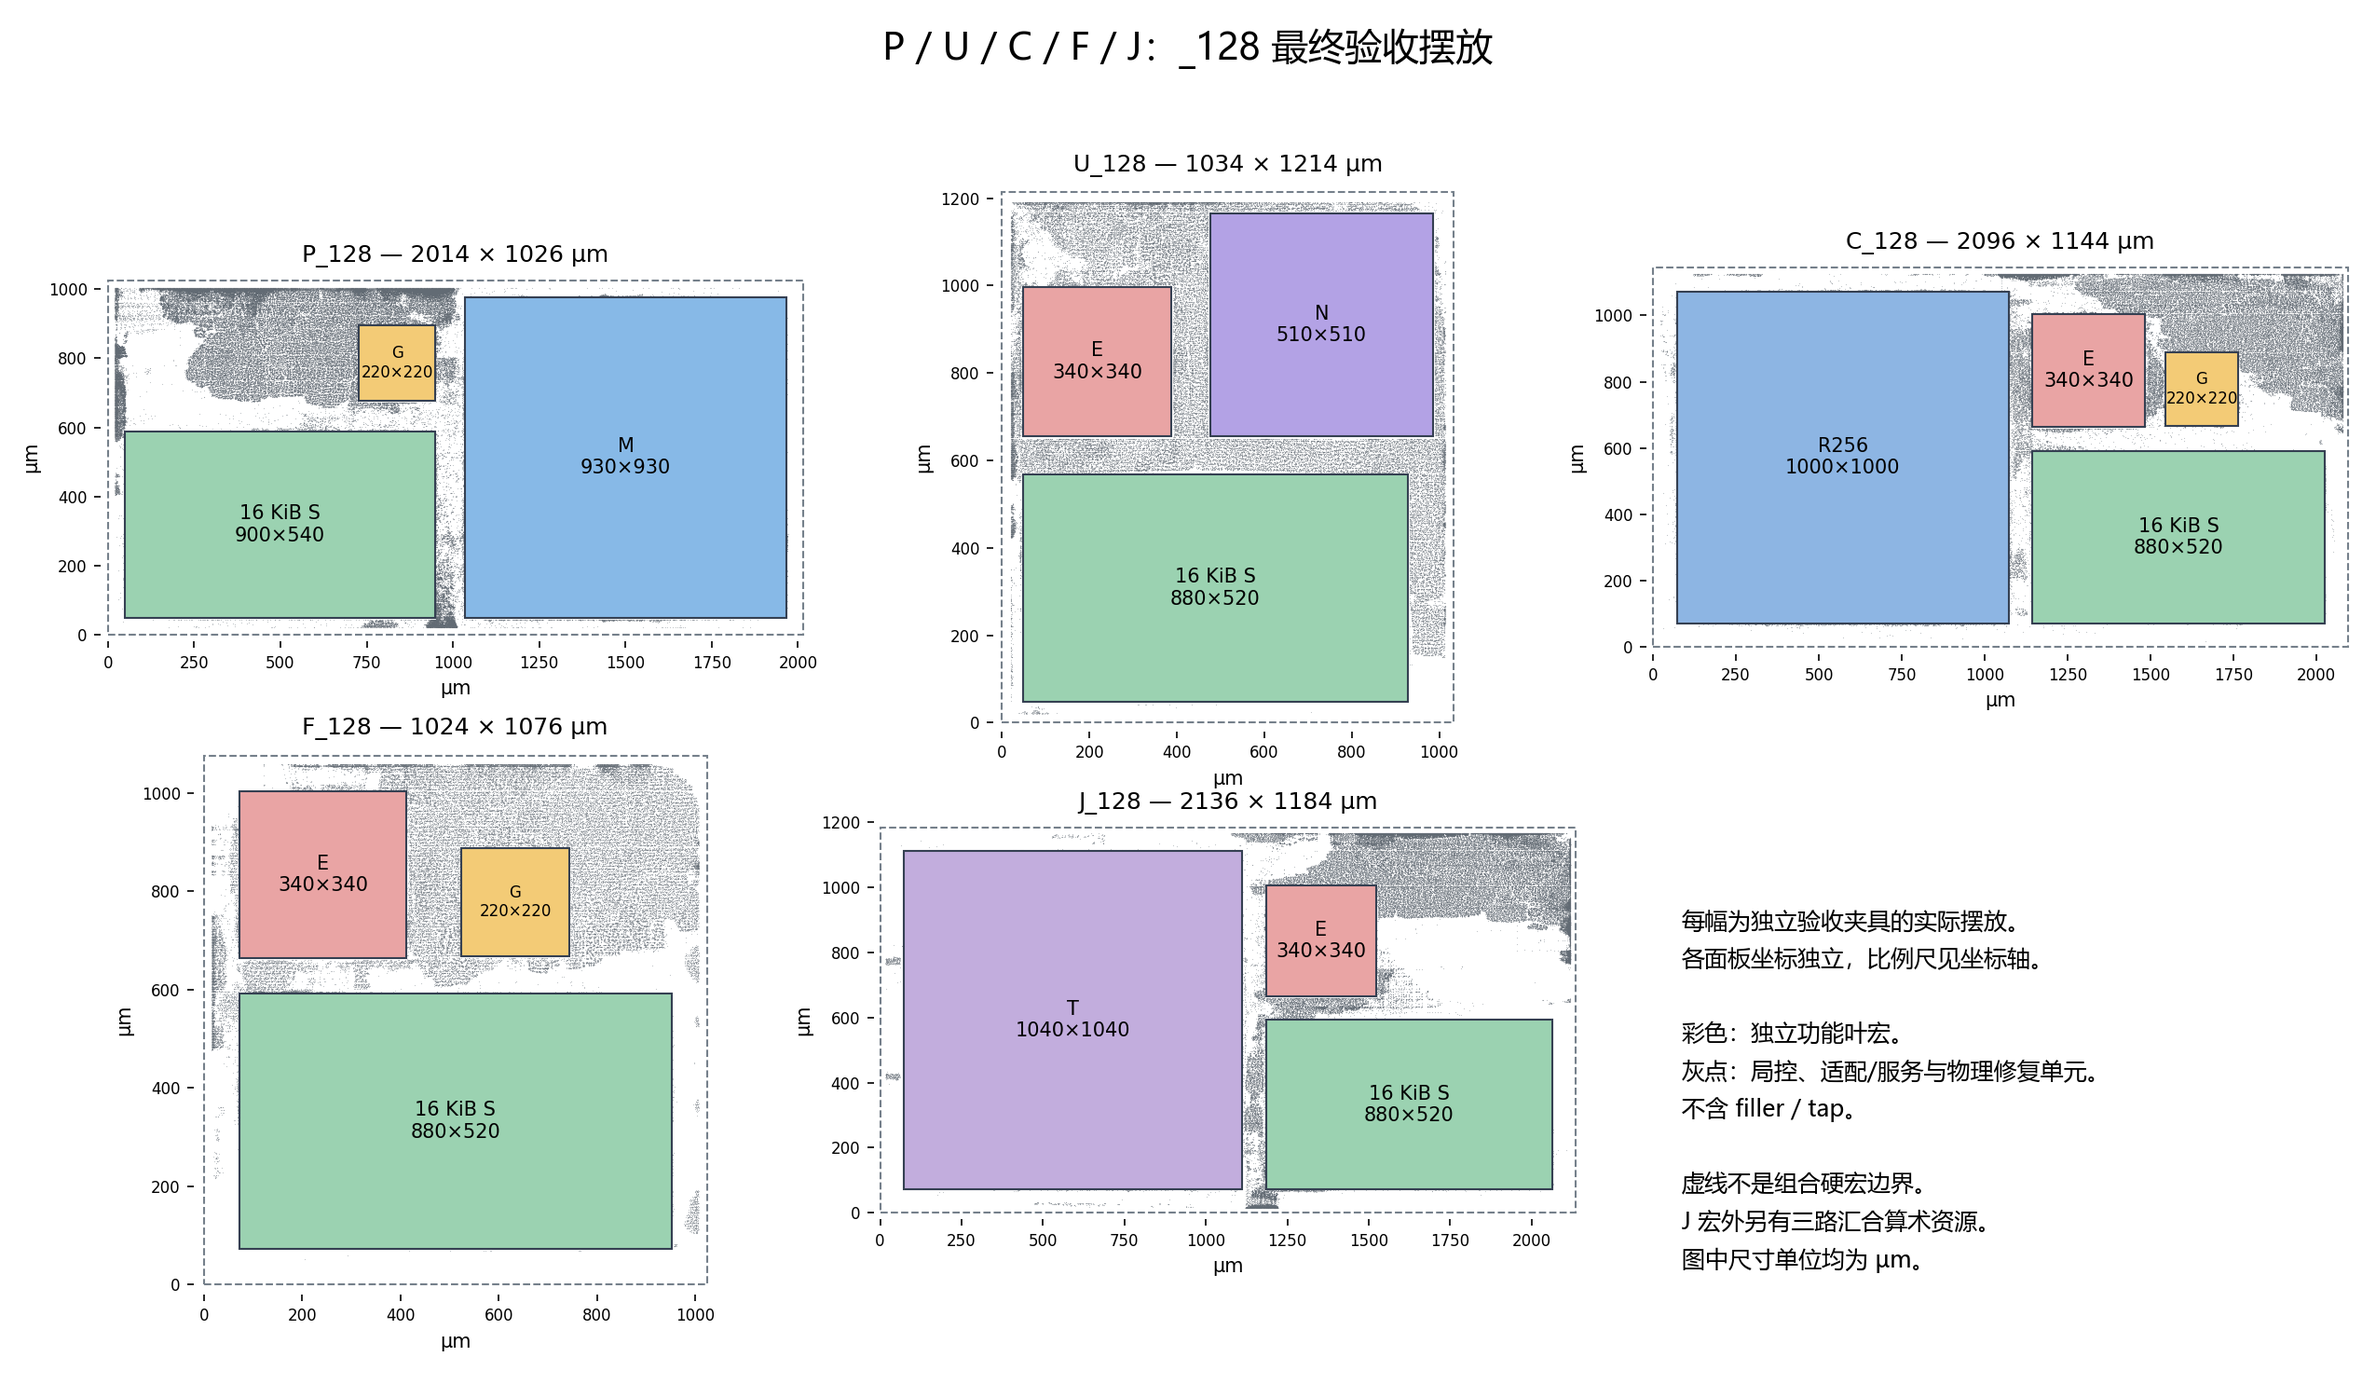
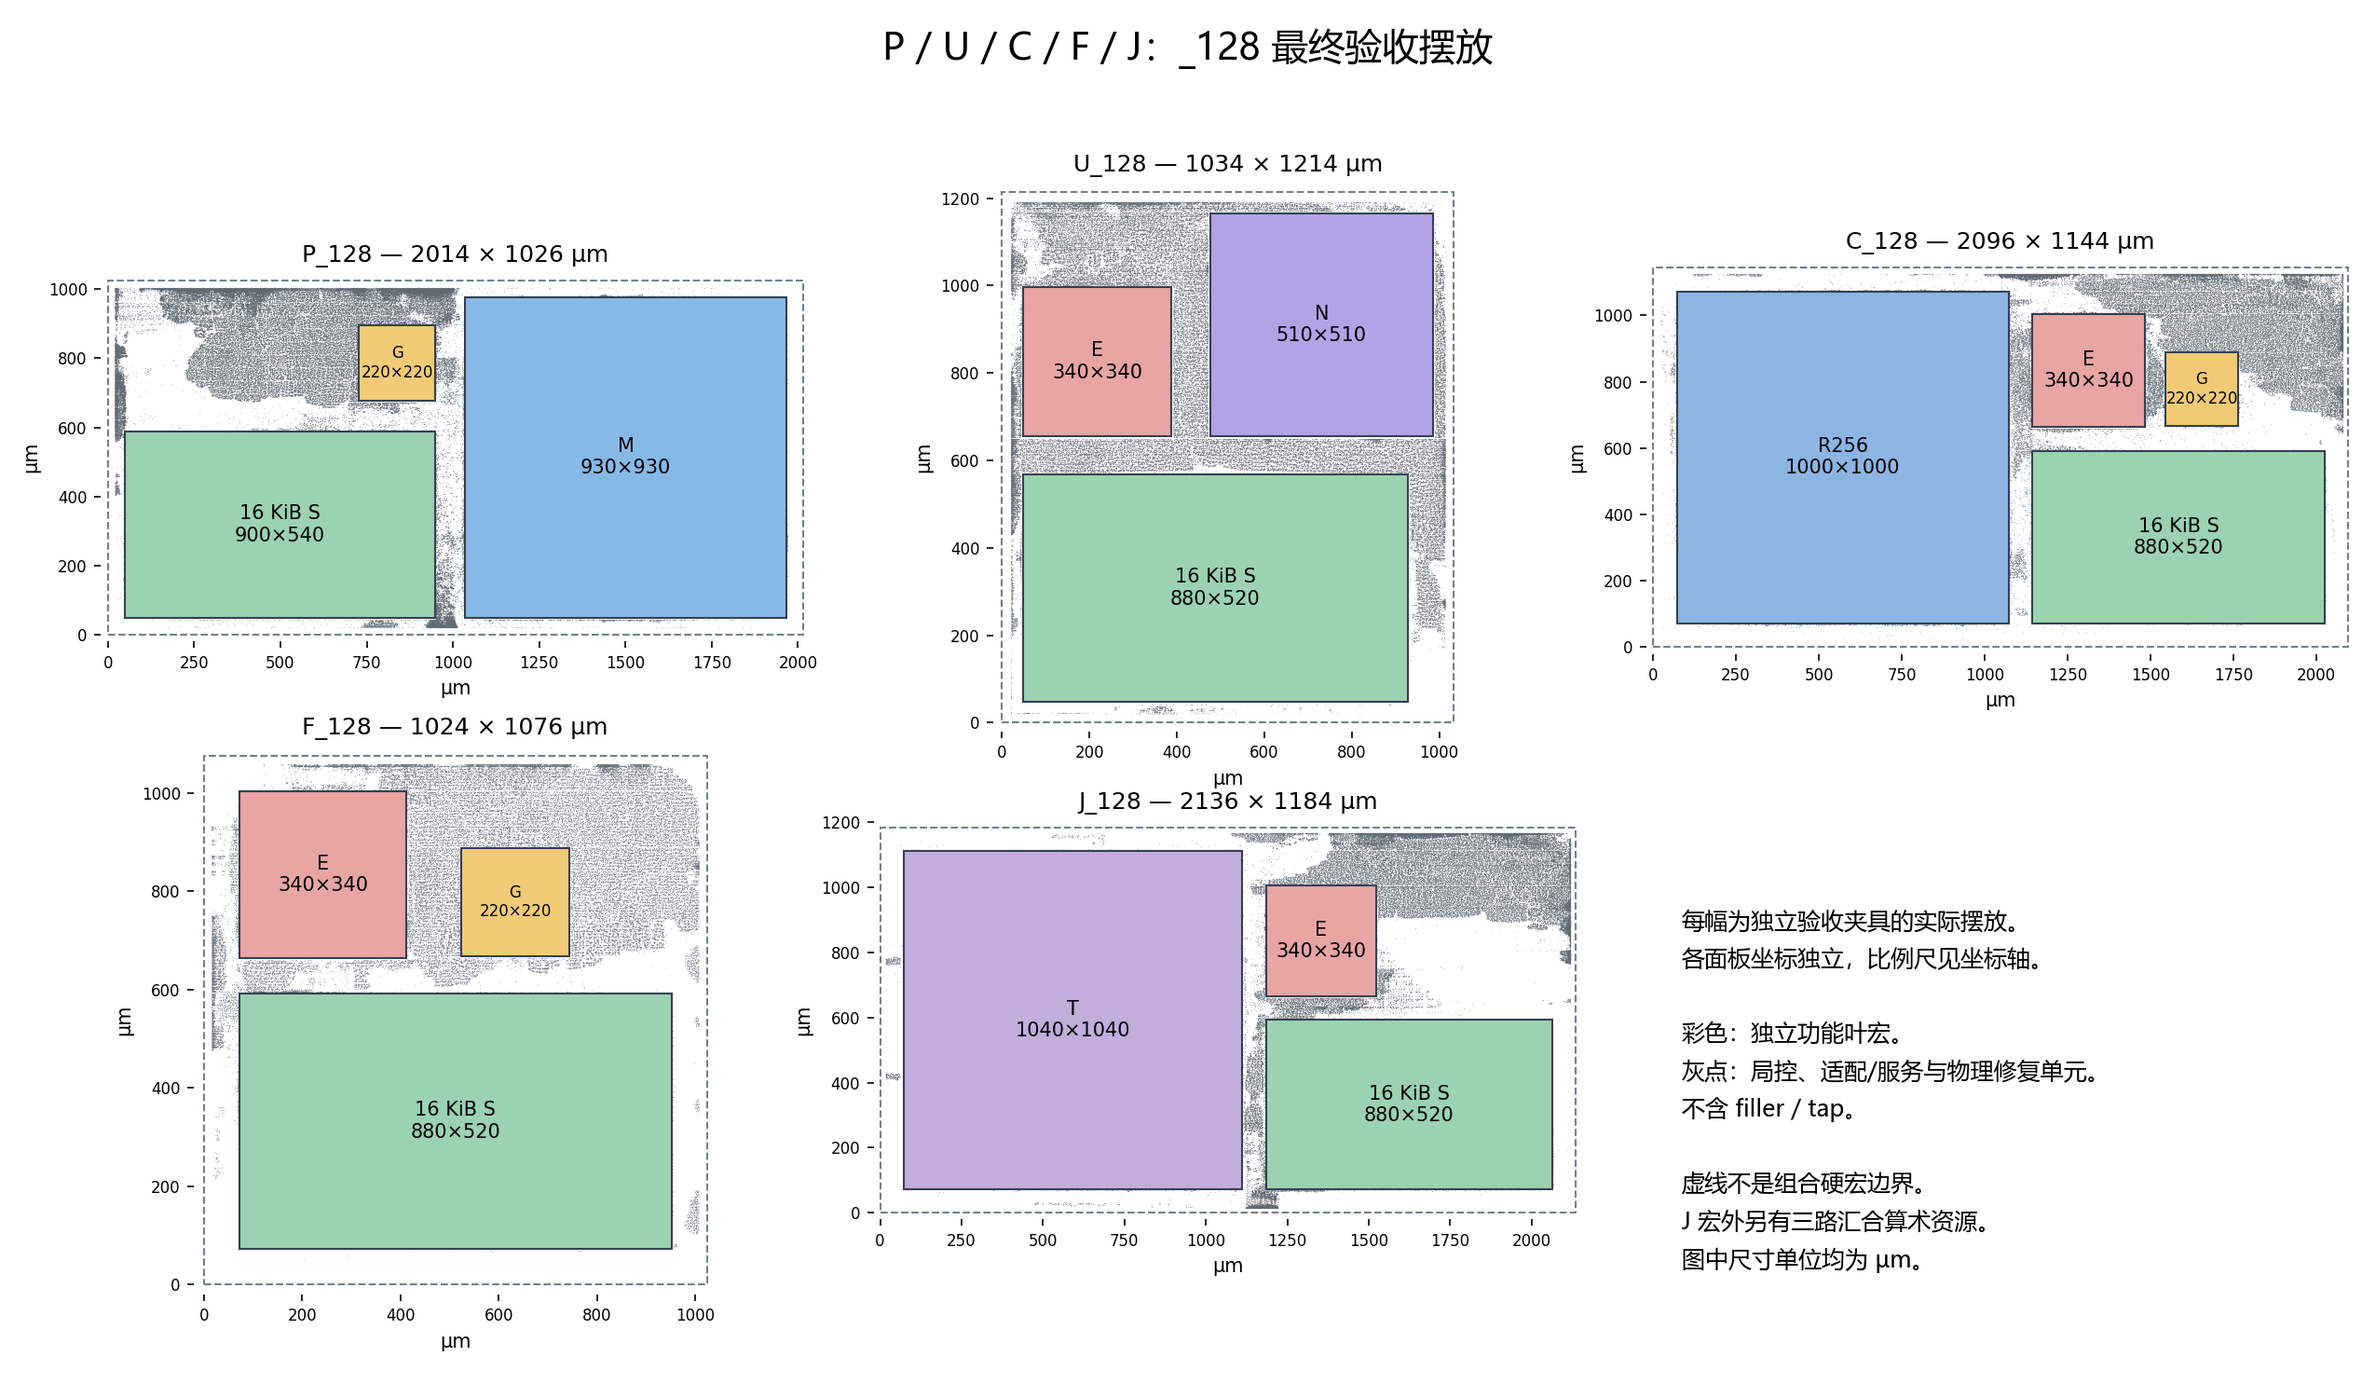
Update five-block placements and accepted U evidence for user-authorized integration

Changed region(s): [[0.4027, 0.1227, 0.6196, 0.46], [0.5886, 0.2453, 0.6196, 0.276]]

diff --git a/project/experiments/cfj_leaf_base/plot_five.py b/project/experiments/cfj_leaf_base/plot_five.py
@@ -23,12 +23,13 @@ for item in items:
  wanted={}
  with tarfile.open(p,'r|gz') as tar:
   for m in tar:
-   if m.name in ('native/6_final.def','native/inputs.json','physical/inventory.json','SHA256SUMS'):
+   if m.name in ('native/6_final.def','native/inputs.json','physical/inventory.json','SHA256SUMS','FILES.sha256'):
     wanted[m.name]=tar.extractfile(m).read()
  assert 'native/6_final.def' in wanted
- members={n:sha(b) for n,b in wanted.items() if n!='SHA256SUMS'}
- if 'SHA256SUMS' in wanted:
-  sums={line[66:].removeprefix('./'):line[:64] for line in wanted['SHA256SUMS'].decode().splitlines() if len(line)>66}
+ members={n:sha(b) for n,b in wanted.items() if n not in ('SHA256SUMS','FILES.sha256')}
+ for manifest in ('SHA256SUMS','FILES.sha256'):
+  if manifest not in wanted: continue
+  sums={line[66:].removeprefix('./'):line[:64] for line in wanted[manifest].decode().splitlines() if len(line)>66}
   for n,h in members.items():
    assert sums.get(n)==h,(p,n,sums.get(n),h)
  data=wanted['native/6_final.def'].decode(); units=int(re.search(r'UNITS DISTANCE MICRONS (\d+)',data)[1]); die=re.search(r'DIEAREA\s+\(\s*(\d+)\s+(\d+)\s*\)\s+\(\s*(\d+)\s+(\d+)\s*\)',data)

diff --git a/docs/experiments/assets/five-leaf-bases/README.md b/docs/experiments/assets/five-leaf-bases/README.md
@@ -1,6 +1,6 @@
 # 五类独立叶宏组：_128 / _64 摆放图
 
-本图册随 [PR #213](https://github.com/rayggxia-workspace/LLMHardwareDesign/pull/213) 和 [PR #214](https://github.com/rayggxia-workspace/LLMHardwareDesign/pull/214) 的主线整合交付。两版分别保留，不把旧包重命名为新物理实现。
+本图册随 [PR #213](https://github.com/rayggxia-workspace/LLMHardwareDesign/pull/213) 和 [PR #214](https://github.com/rayggxia-workspace/LLMHardwareDesign/pull/214) 的主线整合交付。两版分别保留，不把旧包重命名为新物理实现。U 两版已更新为 [PR #221](https://github.com/rayggxia-workspace/LLMHardwareDesign/pull/221) 修复普通三源入口和同时 SEND 后重新物理验收的最终包；P/C/F/J 的归档来源保持不变。
 
 ## 128 位指令版本
 
@@ -14,9 +14,18 @@
 
 ## 来源及验收边界
 
-[图源绑定](placement-source.json)记录十个不可变包的 SHA-256、最终 DEF 和几何元数据的 SHA-256、宏位置与实际标准单元点数。生成时核对包 SHA，存在 SHA256SUMS 的包还核对被读取成员；宏位置取最终 DEF，尺寸取归档的 inventory 或 inputs，未重新估算布局。U_128 采用 E 操作数修复后的包，不采用旧历史 U 包。
+[图源绑定](placement-source.json)记录十个不可变包的 SHA-256、最终 DEF 和几何元数据的 SHA-256、宏位置与实际标准单元点数。生成时核对包 SHA，存在 SHA256SUMS 的包还核对被读取成员；宏位置取最终 DEF，尺寸取归档的 inventory 或 inputs，未重新估算布局。U_128/U_64 均采用本次原生服务入口和独立 TX 槽修复后的包，不采用 #214 历史 U 包；新包的 `FILES.sha256` 和旧包的 `SHA256SUMS` 均逐项核对所读取成员。
 
 完整物理验收及回收回执分别见 [C/F/J](../../../../work/YUZE-LU/211/README.md)、[C/F/J _64](../../../../work/YUZE-LU/211/control64-acceptance.json)、[P/U](../../../../work/YUZE-LU/212/README.md)、[P/U _64](../../../../work/YUZE-LU/212/compact64-acceptance.json)。本图不扩大独立 TT 300 MHz 的证据范围，不代表九实例共同底座、模型执行或多 PVT 签核。
+
+## 当前 U 两版验收
+
+| 版本 | 完整原版 GDS DRC | 原生 TT 300 MHz setup / hold（ps） | 最终网表回归 | 已回收核验文件 |
+| --- | --- | --- | --- | --- |
+| U_128 | 0 | +255.014 / +14.595 | 48/48 | 1,389 |
+| U_64 | 0 | +73.082 / +0.212 | 78/78 | 2,101 |
+
+[当前 U 工程回执](../../../../work/YUZE-LU/212/u-native-fix.md)和[机器索引](../../../../work/YUZE-LU/212/u-native-fix.json)给出源码锁、最终网表、全部程序和不可变交付包 SHA-256。两版图片均重新读取这些包的最终 DEF；其他八个版本的图源记录与此前一致。U_64 的 +0.212 ps hold 仅代表 TT 1.1 V、25 °C 当前约束通过，不代表顶层或多 PVT 裕量。
 
 P/U 的 _64 是记录的 #195 派生原生服务子集加紧凑取指；C/F/J 的 _64 固定 #180 `2a66b918`，也仅声明已注册服务。合入同一主线不等于 ISA/profile 已统一；联合顶层仍需绑定局控 ID、程序镜像版本、描述符及控制 profile。
 

diff --git a/docs/STATUS.md b/docs/STATUS.md
@@ -1,6 +1,6 @@
 # 当前状态
 
-2026-11-08，#214 合并后 U_128/U_64 的普通三源 FMA 入口拒绝和双向 SEND 死锁由 [PR #221](https://github.com/rayggxia-workspace/LLMHardwareDesign/pull/221) 修复。两版均通过完整原版 GDS DRC 0、原生 TT 300 MHz 时序、电气/PG及代表上层三档 RC；最终网表 48/48、78/78 次全部通过。交付包及全部 1,389/2,101 个清单文件已本地回收核验。U_64 原生 hold +0.212 ps，只证明当前条件通过；九实例顶层和其他 PVT 不在范围。详见[最终回执](../work/YUZE-LU/212/u-native-fix.md)和[机器索引](../work/YUZE-LU/212/u-native-fix.json)。P 和 C/F/J 未修改，历史 U 功能覆盖不足已更正。PR 待独立审查，不自合并；登记 pending，看板 unverified/同步 pending。
+2026-11-08，#214 合并后 U_128/U_64 的普通三源 FMA 入口拒绝和双向 SEND 死锁由 [PR #221](https://github.com/rayggxia-workspace/LLMHardwareDesign/pull/221) 修复。两版均通过完整原版 GDS DRC 0、原生 TT 300 MHz 时序、电气/PG及代表上层三档 RC；最终网表 48/48、78/78 次全部通过。交付包及全部 1,389/2,101 个清单文件已本地回收核验。U_64 原生 hold +0.212 ps，只证明当前条件通过；九实例顶层和其他 PVT 不在范围。详见[最终回执](../work/YUZE-LU/212/u-native-fix.md)和[机器索引](../work/YUZE-LU/212/u-native-fix.json)。P 和 C/F/J 未修改，历史 U 功能覆盖不足已更正。用户已授权将 PR #221 并入 main，实际合并状态以在线回执为准；登记 pending，看板 unverified/同步 pending。
 
 2026-11-07，[PR #213](https://github.com/rayggxia-workspace/LLMHardwareDesign/pull/213) 的 C/F/J `_128` 独立交付保留，C/F 同时发送死锁已由独立 TX 槽修复并通过真实 SRAM 和母控/双局控程序回归。新增 C/F/J `_64` 固定 #180 2a66b918，完整原版 GDS DRC 均为 0；PG、电气、LEC、TT 300 MHz 提取时序及最终网表回放全部通过。三包已回收并逐项核验全部316/273/548文件，工程交付按用户授权随 #213/#214 整合，最终合并回执以 PR 在线状态为准。后制 RC 为研究模型，九实例顶层及跨 PR 控制合同另验。详见[验收索引](../work/YUZE-LU/211/control64-acceptance.json)和[五类两版实际摆放图册](experiments/assets/five-leaf-bases/README.md)。
 

diff --git a/work/YUZE-LU/212/README.md b/work/YUZE-LU/212/README.md
@@ -1,6 +1,6 @@
 # Issue #212 P/U 工作记录
 
-2026-11-08，#214 合并后 U_128/U_64 的普通三源 FMA 入口拒绝和双向 SEND 死锁由 [PR #221](https://github.com/rayggxia-workspace/LLMHardwareDesign/pull/221) 修复。两版均通过完整原版 GDS DRC 0、原生 TT 300 MHz 时序、电气/PG及代表上层三档 RC；最终网表 48/48、78/78 次全部通过。交付包及全部 1,389/2,101 个清单文件已本地回收核验。U_64 原生 hold +0.212 ps，只证明当前条件通过；九实例顶层和其他 PVT 不在范围。详见[最终回执](u-native-fix.md)和[机器索引](u-native-fix.json)。P 和 C/F/J 未修改，历史 U 功能覆盖不足已更正。PR 待独立审查，不自合并；登记 pending，看板 unverified/同步 pending。
+2026-11-08，#214 合并后 U_128/U_64 的普通三源 FMA 入口拒绝和双向 SEND 死锁由 [PR #221](https://github.com/rayggxia-workspace/LLMHardwareDesign/pull/221) 修复。两版均通过完整原版 GDS DRC 0、原生 TT 300 MHz 时序、电气/PG及代表上层三档 RC；最终网表 48/48、78/78 次全部通过。交付包及全部 1,389/2,101 个清单文件已本地回收核验。U_64 原生 hold +0.212 ps，只证明当前条件通过；九实例顶层和其他 PVT 不在范围。详见[最终回执](u-native-fix.md)和[机器索引](u-native-fix.json)。P 和 C/F/J 未修改，历史 U 功能覆盖不足已更正。用户已授权将 PR #221 并入 main，实际合并状态以在线回执为准；登记 pending，看板 unverified/同步 pending。
 
 
 P_128/U_128 的原合格交付保留；新增 P_64/U_64 均已独立通过物理验收和本地回收校验，见[版本回执](compact64-physical.md)与[机器索引](compact64-acceptance.json)。工程完成，PR 待独立审查。下方旧验收数据保留原样，不作为新版本通过证据。

diff --git a/progress/YUZE-LU/STATUS.md b/progress/YUZE-LU/STATUS.md
@@ -2,7 +2,7 @@
 
 ## 2026-11-08（CST）U 原生入口和双向发送修复
 
-[Issue #212](https://github.com/rayggxia-workspace/LLMHardwareDesign/issues/212) → `in_review`；[PR #221](https://github.com/rayggxia-workspace/LLMHardwareDesign/pull/221) 待独立审查。独立 TX 槽和普通三源入口修复后，两版重新综合并通过完整原版 GDS DRC 0、TT 300 MHz、电气/PG及三档代表上层 RC。U_128 setup/hold +255.014/+14.595 ps，U_64 +73.082/+0.212 ps；最终网表 48/48、78/78 全部通过。两包及全部 1,389/2,101 文件回收核验成功，31 硬件源文件与审查代码一致。[最终回执](../../work/YUZE-LU/212/u-native-fix.md)。P 不变。下一步独立审查，审查人及 Issue 在线 assignee 待指定；不自合并。登记 PR5 pending，缺 board 配置，Projects unverified/同步 pending，复用接入交接 Issue7。
+[Issue #212](https://github.com/rayggxia-workspace/LLMHardwareDesign/issues/212) → `in_review`；[PR #221](https://github.com/rayggxia-workspace/LLMHardwareDesign/pull/221) 待独立审查。独立 TX 槽和普通三源入口修复后，两版重新综合并通过完整原版 GDS DRC 0、TT 300 MHz、电气/PG及三档代表上层 RC。U_128 setup/hold +255.014/+14.595 ps，U_64 +73.082/+0.212 ps；最终网表 48/48、78/78 全部通过。两包及全部 1,389/2,101 文件回收核验成功，31 硬件源文件与审查代码一致。[最终回执](../../work/YUZE-LU/212/u-native-fix.md)。P 不变。用户已授权将 #221 合入 main；五类图册 U 两版已绑定新验收包，P/C/F/J 图源不变。实际合并状态以 PR 在线回执为准，Issue 在线 assignee 未指定。登记 PR5 pending，缺 board 配置，Projects unverified/同步 pending，复用接入交接 Issue7。
 
 ## 2026-11-07（CST）C/F/J 独立叶宏组
 

diff --git a/project/experiments/pu_leaf_base/README.md b/project/experiments/pu_leaf_base/README.md
@@ -1,5 +1,7 @@
 # P/U 独立叶宏底座
 
+当前 U_128/U_64 使用 #221 的独立 TX 槽和普通三源 FMA 入口修复版，两版均已重新通过完整原版 GDS DRC 0、TT 300 MHz、电气/PG及最终网表回放；旧 #214 U 包保留为历史。[当前 U 验收及包索引](../../../work/YUZE-LU/212/u-native-fix.md) · [五类 Block 的两版摆放图与图源](../../../docs/experiments/assets/five-leaf-bases/README.md)。P 两版保持原合格包。
+
 既有合格交付记为 `P_128`/`U_128`，保持旧包和物理模块名称不变。`PU_INSTRUCTION_BITS=64` 生成独立的 `pu_p_controlled_64`/`pu_u_controlled_64`。64 位指令以 v2 镜像真正打包，PM 接口仍为 128 位；这是固定原生服务控制核的紧凑取指移植，支持范围和独立验收见[版本回执](../../../work/YUZE-LU/212/compact64-physical.md)。旧版资格不能转移给新版。
 
 64 位版本仍逐条取指，同一 128 位 PM 字中的两个指令分别读取，没有新增取指缓存，不宣称取指吞吐翻倍。固定基线上的独立初始实现可用下面的命令启动；后续修复及最终验收以版本回执记录的不可变检查点为准。复跑依赖原工程存储中的固定叶宏视图和 #195 冻结源。

diff --git a/work/YUZE-LU/212/u-native-fix.md b/work/YUZE-LU/212/u-native-fix.md
@@ -47,4 +47,4 @@ python -X utf8 work/YUZE-LU/212/verify-u-native.py <archive.tar.gz> <sha256>
 
 ## 协作回执
 
-规则 rayggxia-project-collab 1.0.0；项目 `llm-hardware-design`；负责人 YUZE-LU。PR 待独立审查，不自合并。登记沿用 management-hub PR #5，尚未合并为 pending；缺 `config/board.json`，Projects 状态 unverified / 同步 pending，复用接入交接 Issue #7，处理人待指定。历史 U 报告保留物理测量，明确其原有功能覆盖不足；本次验收不扩大为九实例系统、多 PVT 或全部 #180 指令合同。
+规则 rayggxia-project-collab 1.0.0；项目 `llm-hardware-design`；负责人 YUZE-LU。用户于 2026-11-08 明确授权将修复及五类图册整合到 main；合并状态以 PR 在线回执为准。登记沿用 management-hub PR #5，尚未合并为 pending；缺 `config/board.json`，Projects 状态 unverified / 同步 pending，复用接入交接 Issue #7，处理人待指定。历史 U 报告保留物理测量，明确其原有功能覆盖不足；本次验收不扩大为九实例系统、多 PVT 或全部 #180 指令合同。

diff --git a/docs/ARCHITECTURE.md b/docs/ARCHITECTURE.md
@@ -139,3 +139,5 @@ Tcl hook 的过程内加载回归入口为 `tclsh project/experiments/block_hier
 ## P/U 独立叶宏底座
 
 P 使用独立 M、紧凑 G、S_P。U 使用独立 N、紧凑 E、S_base。真实 SRAM、母局控控制链和 M1–M10 物理复跑见 [P/U 实验](../project/experiments/pu_leaf_base/README.md)。
+
+五类 P/U/C/F/J 的 `_128` / `_64` 当前摆放图、逐版本归档图源与验收入口集中在[五类独立叶宏组图册](experiments/assets/five-leaf-bases/README.md)。U 当前修复后的独立验收及重放范围见[最终回执](../work/YUZE-LU/212/u-native-fix.md)。
